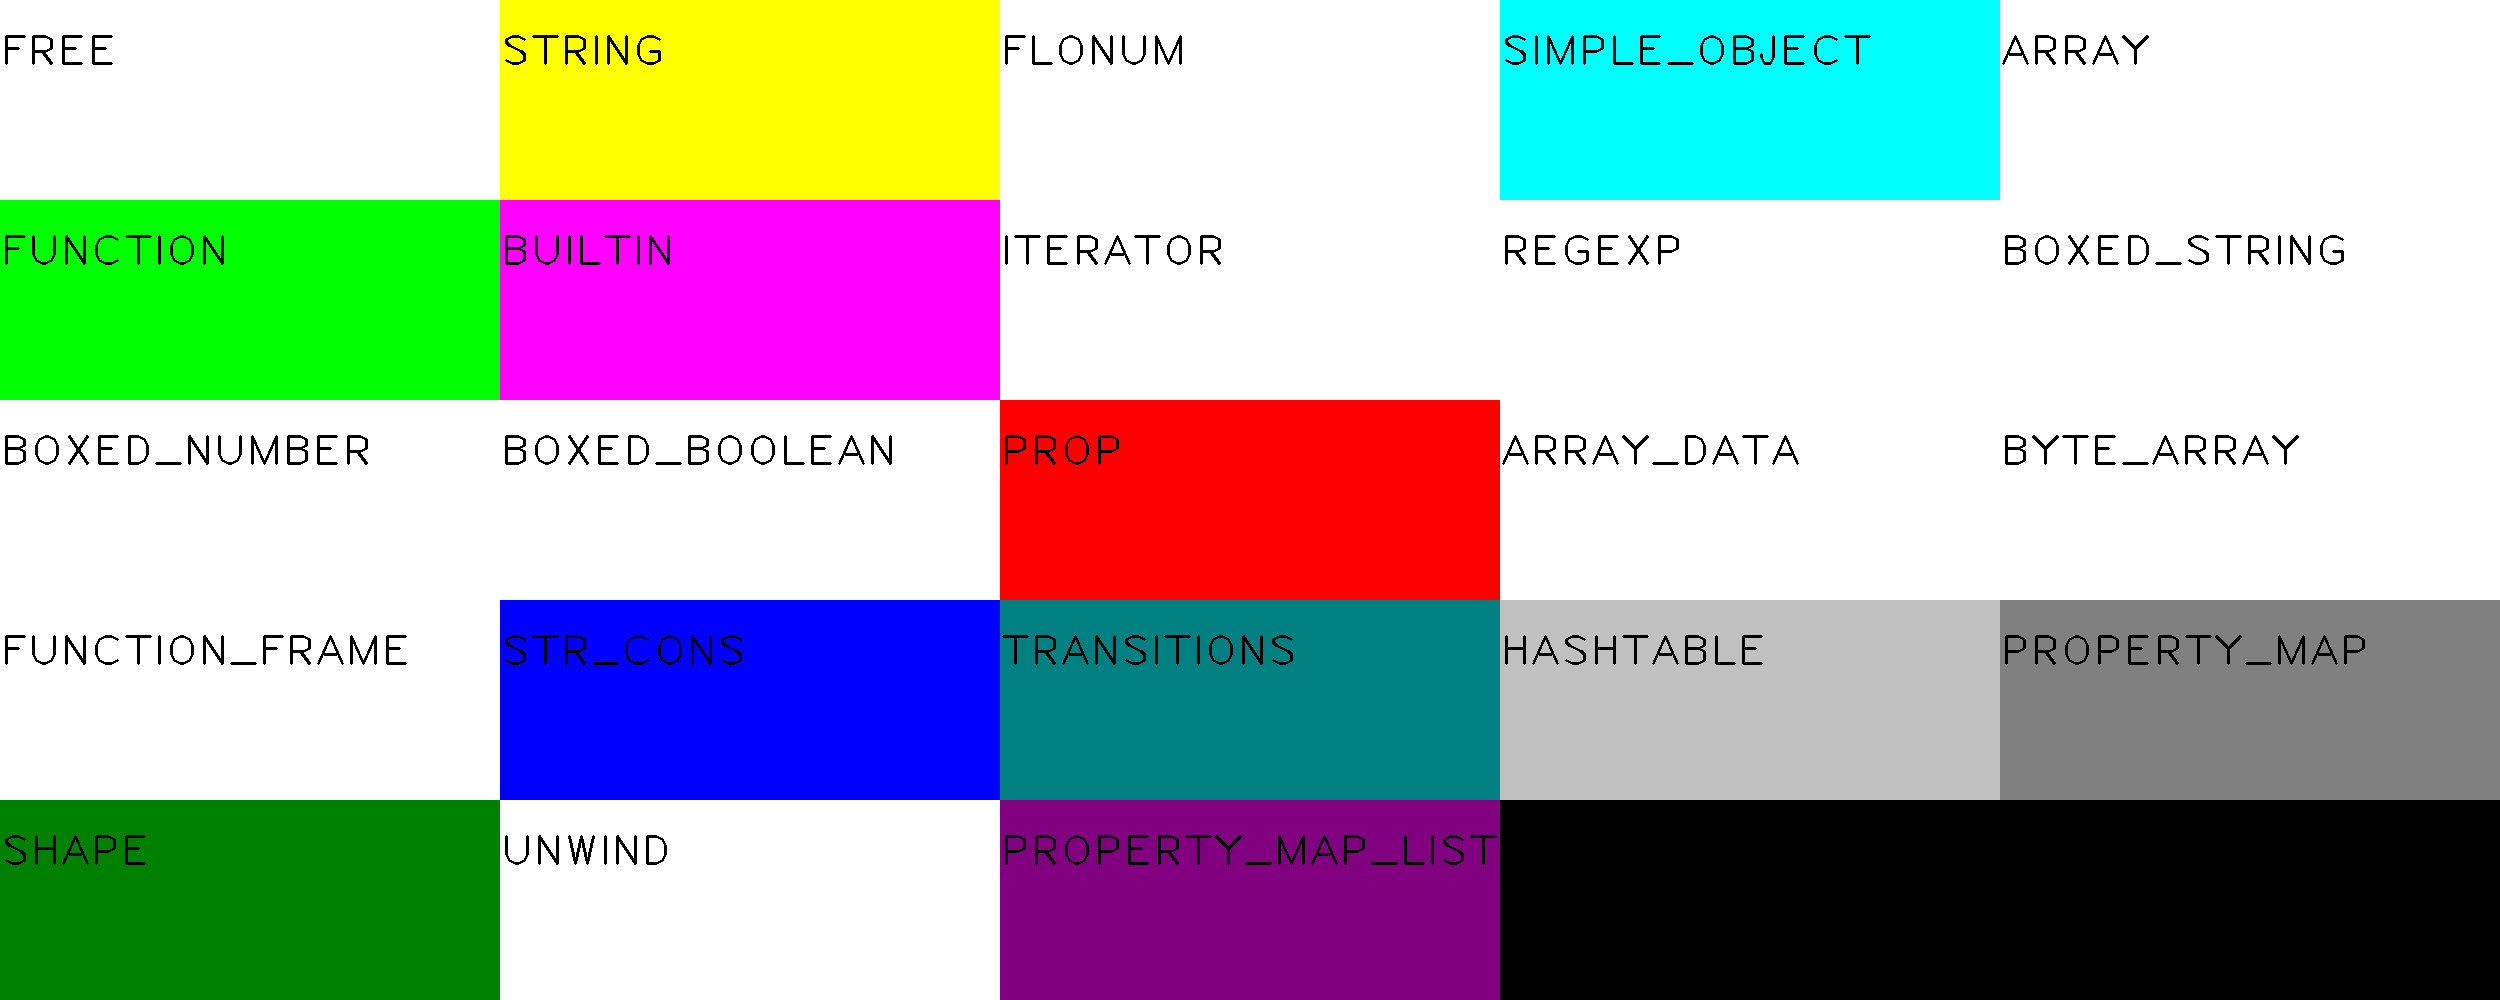
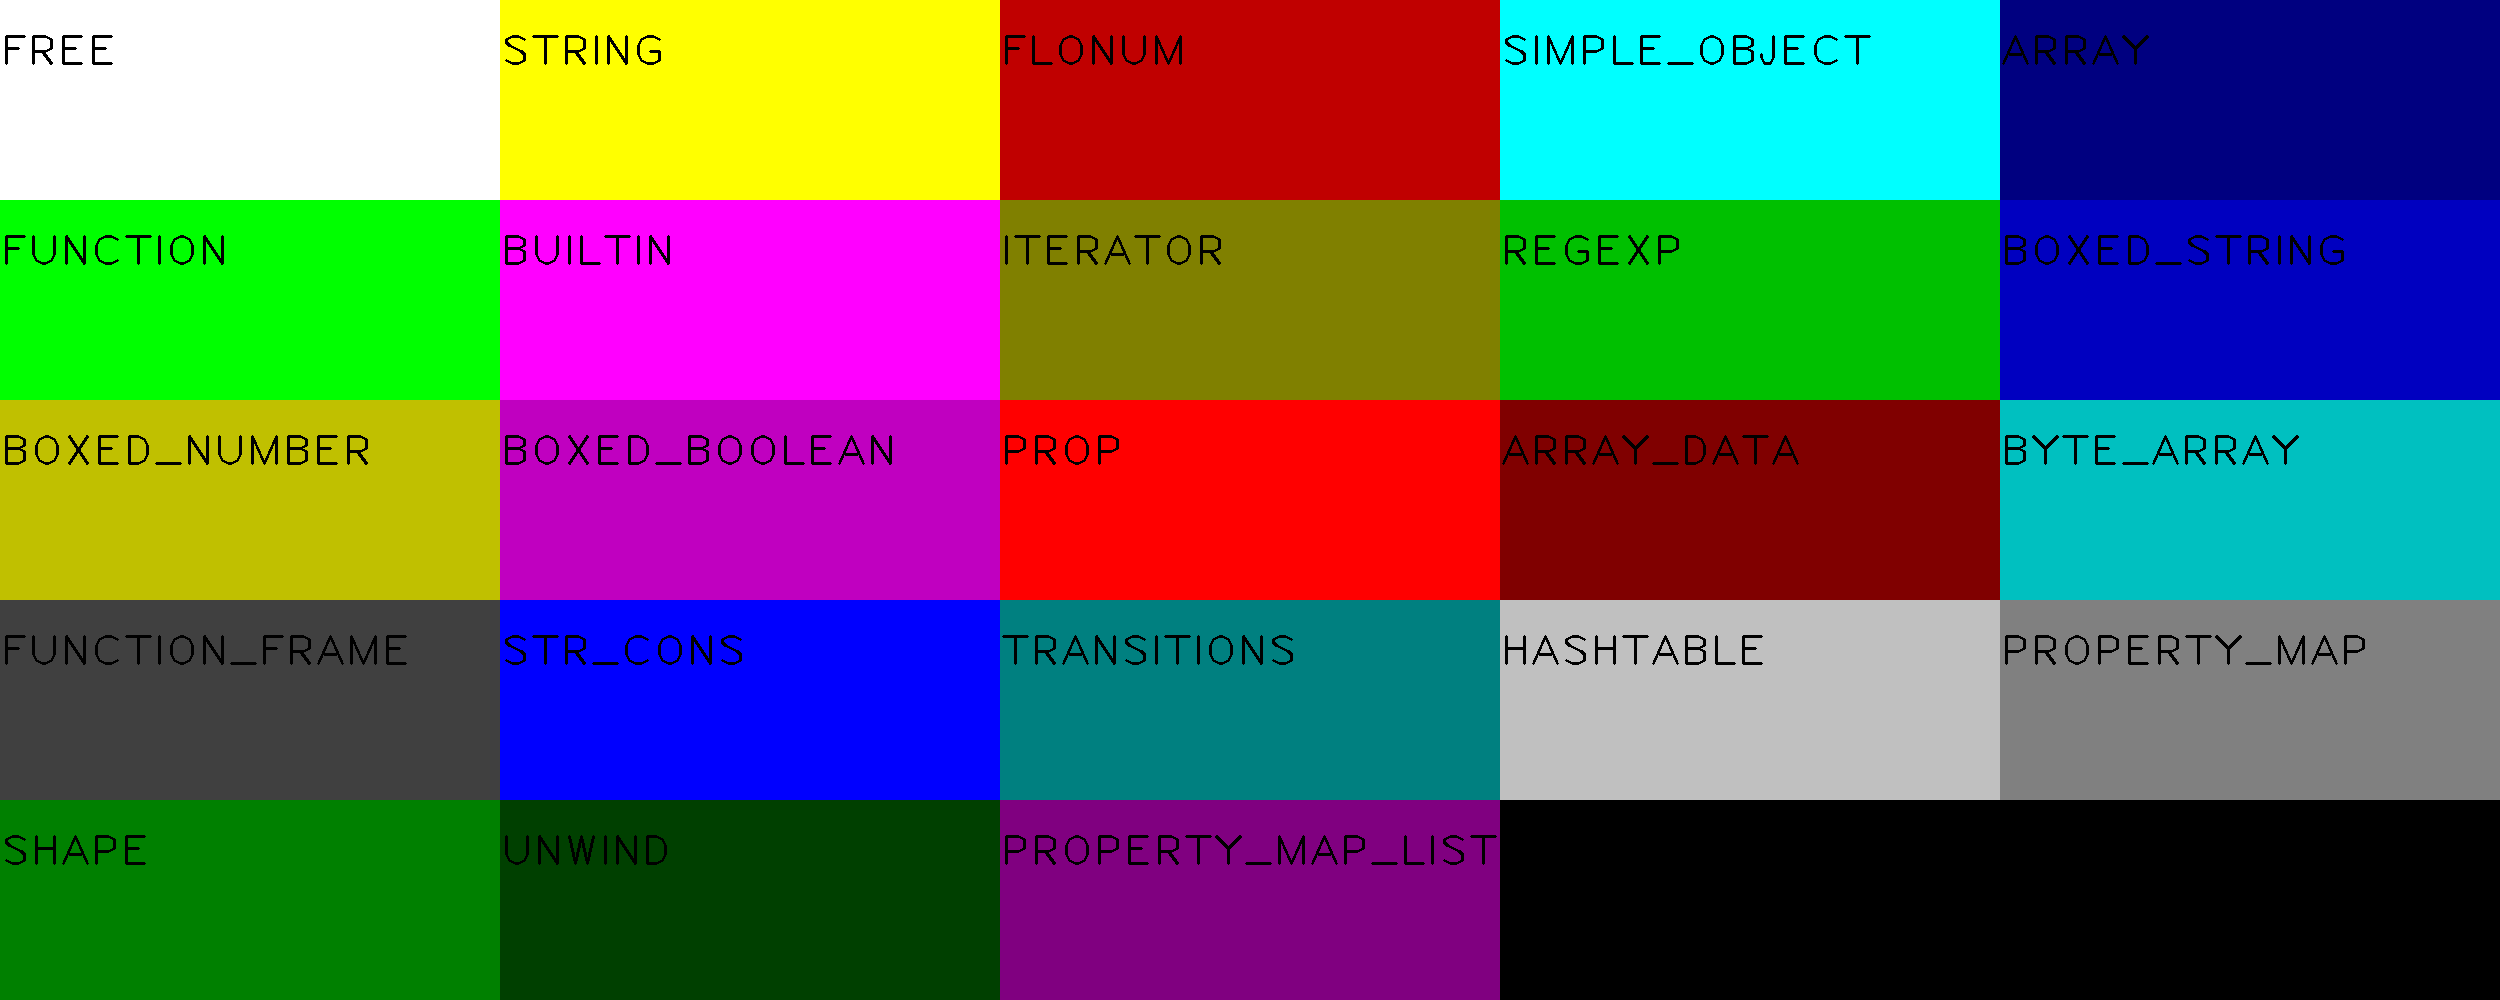
add hidden color

diff --git a/analysis/analyze.py b/analysis/analyze.py
@@ -1,6 +1,7 @@
 import cv2
 import numpy as np
-from collections import defaultdict
+from math import floor
+from random import randint
 
 from cell_types import CellTypeDict
 from ReadFile import readGC
@@ -9,84 +10,152 @@ BLACK = (0,0,0)
 CELL_LEN = 8
 INF = (1<<63) - 1
 
+USED_COLORS = set([])
+
+def num2color(x):
+  r = x >> 16
+  g = (x >> 8) % (1 << 8)
+  b = x % (1 << 8)
+  return (r, g, b)
+
+def color2num(c):
+  r, g, b = c[0], c[1], c[2]
+  return (r << 16) + (g << 8) + b
+
+for v in CellTypeDict.values():
+  c = v[1]
+  USED_COLORS.add(color2num(c))
+
+
 def is_hidden_class(type):
   return type <= 15
 
-def original_analyze(snap_shot, title):
+def getDict(snap_shot):
   total_bytes = 0
-  min_address = INF
-  max_address = -INF
-  for byte, _, address, _ in snap_shot:
-    min_address = min((min_address // 64) * 64, address)
-    max_address = max(max_address, (address + byte + 63)// 64 * 64)
-
-  width = 8
-  height = (max_address - min_address) // 64
-  img = np.zeros((height*CELL_LEN, width*CELL_LEN, 3), dtype=np.uint8)
-
+  dict = {}
   object_nums = [0 for _ in range(33)]
   object_bytes = [0 for _ in range(33)]
 
-  total_bytes = 0
-  dict = {} # num, total size
+  # original
+  min_address = INF
+  max_address = -INF
+
+  # alignment
+  alignment_height = 0
+
   for byte, type, address, hidden_class in snap_shot:
+    total_bytes += byte
+    object_nums[type] += 1
+    object_bytes[type] += byte
     if is_hidden_class(type):
       key = (type, hidden_class)
       if key not in dict:
         dict[key] = [0, 0]
       dict[key][0] += 1
       dict[key][1] += byte
-    total_bytes += byte
-    object_nums[type] += 1
-    object_bytes[type] += byte
+
+    # original
+    min_address = min((min_address // 64) * 64, address)
+    max_address = max(max_address, (address + byte + 63)// 64 * 64)
+
+    # alignment
+    alignment_height += (byte + 63) // 64
+
+  compress_types = 0
+  compress_target_bytes = 0
+  for key, val in dict.items():
+    if val[0] > 1:
+      compress_types += 1
+      compress_target_bytes += val[1]
+
+  additional_color_candidates = min(max(5, floor(compress_types * 1.5)), (1<<23)-1)
+  C = (1<<24)-1
+  inc = (C+1)//additional_color_candidates
+  Cs = []
+  for i in range(inc, C+1, inc):
+    if i > C: break
+    if i not in USED_COLORS:
+      Cs.append(num2color(i))
+  additional_colors = len(Cs)
+  idx = 0
+  hiddenClassCellTypeDict = {}
+  for key, val in dict.items():
+    if val[0] > 1:
+      if (idx >= additional_colors):
+        while True:
+          x = randint(0, (1<<24)-1)
+          if x not in USED_COLORS:
+            USED_COLORS.add(x)
+            c = num2color(x)
+            hiddenClassCellTypeDict[key] = c
+            break
+      else:
+        hiddenClassCellTypeDict[key] = Cs[idx]
+        idx += 1
+
+  print("total byte: {0} ({1} KB)".format(total_bytes, floor(total_bytes / 1024 * 100) / 100))
+  for key, val in CellTypeDict.items():
+    print("object type: {0}, count: {1}, byte: {2}".format(val[0], object_nums[key], object_bytes[key]))
+  print("compress types: {0}".format(compress_types))
+  print("compress target bytes: {0} ({1} KB, {2}%)".format(compress_target_bytes, floor(compress_target_bytes/1024 * 100)/100, floor(compress_target_bytes/total_bytes*10000)/100))
+  for key, val in dict.items():
+    if (val[0] > 1):
+      print(key, val)
+  return dict, total_bytes, compress_types, hiddenClassCellTypeDict, min_address, max_address, alignment_height
+
+
+def original_analyze(snap_shot, title, hiddenClassCellTypeDict, max_address, min_address):
+  width = 8
+  height = (max_address - min_address) // 64
+  img = np.zeros((height*CELL_LEN, width*CELL_LEN, 3), dtype=np.uint8)
+  img_hidden_class = np.zeros((height*CELL_LEN, width*CELL_LEN, 3), dtype=np.uint8)
+
+  for byte, type, address, hidden_class in snap_shot:
     relative_address = address - min_address
     id = relative_address // 8
     blocks = byte // 8 # 8 byte blockの個数
+    key = (type, hidden_class)
     for i in range(blocks):
       h, w = (id+i) // width, (id+i) % width
       img[h*CELL_LEN:(h+1)*CELL_LEN, w*CELL_LEN:(w+1)*CELL_LEN] = CellTypeDict[type][1]
       img[(h+1)*CELL_LEN-1:(h+1)*CELL_LEN, w*CELL_LEN:(w+1)*CELL_LEN] = BLACK
+      # hidden class
+      if key in hiddenClassCellTypeDict:
+        img_hidden_class[h*CELL_LEN:(h+1)*CELL_LEN, w*CELL_LEN:(w+1)*CELL_LEN] = hiddenClassCellTypeDict[key]
+        img_hidden_class[(h+1)*CELL_LEN-1:(h+1)*CELL_LEN, w*CELL_LEN:(w+1)*CELL_LEN] = CellTypeDict[type][1]
+      else:
+        img_hidden_class[h*CELL_LEN:(h+1)*CELL_LEN, w*CELL_LEN:(w+1)*CELL_LEN] = CellTypeDict[type][1]
+        img_hidden_class[(h+1)*CELL_LEN-1:(h+1)*CELL_LEN, w*CELL_LEN:(w+1)*CELL_LEN] = BLACK
 
-  compress_byte = 0
-  for key, val in dict.items():
-    compress_byte += val[1]
-    print(key, val)
-
-
-  print("===== {0} =====".format(title))
   cache_lines = height
-  print("cache line: {0}, total byte: {1}".format(cache_lines, total_bytes))
-  print("compress byte: {0}, {1}%".format(compress_byte, compress_byte / total_bytes * 100))
-  print("{0} KB".format(total_bytes//1024))
-  for key, val in CellTypeDict.items():
-    print("object type: {0}, count: {1}, byte: {2}".format(val[0], object_nums[key], object_bytes[key]))
-  print("===== end =====")
-  return
+  print("original cache line: {0}".format(cache_lines))
+  cv2.imwrite("{0}_hidden.png".format(title), img_hidden_class)
   cv2.imwrite("{0}.png".format(title), img)
 
 
-def alignment_analyze(snap_shot, title):
+def alignment_analyze(snap_shot, title, height, hiddenClassCellTypeDict):
   width = 8
-  height = 0
-  for byte, _, _ in snap_shot:
-    height += (byte + 63) // 64
 
   img = np.zeros((height*CELL_LEN, width*CELL_LEN, 3), dtype=np.uint8)
+  img_hidden_class = np.zeros((height*CELL_LEN, width*CELL_LEN, 3), dtype=np.uint8)
+
   h = 0
-  object_nums = [0 for _ in range(33)]
-  object_bytes = [0 for _ in range(33)]
-  total_bytes = 0
   for byte, type, _, hidden_class in snap_shot:
-    total_bytes += byte
-    object_nums[type] += 1
-    object_bytes[type] += byte
     section_num = byte // 8
     hs = section_num // 8
     re = section_num  % 8
+    key = (type, hidden_class)
     for _ in range(hs):
       img[h*CELL_LEN:(h+1)*CELL_LEN, 0:width*CELL_LEN] = CellTypeDict[type][1]
       img[(h+1)*CELL_LEN-1:(h+1)*CELL_LEN, 0:width*CELL_LEN] = BLACK
-      h += 1
+      # hidden class
+      if key in hiddenClassCellTypeDict:
+        img_hidden_class[h*CELL_LEN:(h+1)*CELL_LEN, 0:width*CELL_LEN] = hiddenClassCellTypeDict[key]
+        img_hidden_class[(h+1)*CELL_LEN-1:(h+1)*CELL_LEN, 0:width*CELL_LEN] = CellTypeDict[type][1]
+      else:
+        img_hidden_class[h*CELL_LEN:(h+1)*CELL_LEN, 0:width*CELL_LEN] = CellTypeDict[type][1]
+        img_hidden_class[(h+1)*CELL_LEN-1:(h+1)*CELL_LEN, 0:width*CELL_LEN] = BLACK
+      h+=1
 
     if re == 0:
       continue
@@ -94,20 +163,38 @@ def alignment_analyze(snap_shot, title):
     img[h*CELL_LEN:(h+1)*CELL_LEN, 0:re*CELL_LEN] = CellTypeDict[type][1]
     img[(h+1)*CELL_LEN-1:(h+1)*CELL_LEN, 0:re*CELL_LEN] = BLACK
     img[h*CELL_LEN:(h+1)*CELL_LEN, re*CELL_LEN-1:re*CELL_LEN] = BLACK
+    # hidden
+    if key in hiddenClassCellTypeDict:
+      img_hidden_class[h*CELL_LEN:(h+1)*CELL_LEN, 0:re*CELL_LEN] = hiddenClassCellTypeDict[key]
+      img_hidden_class[(h+1)*CELL_LEN-1:(h+1)*CELL_LEN, 0:re*CELL_LEN] = CellTypeDict[type][1]
+      img_hidden_class[h*CELL_LEN:(h+1)*CELL_LEN, re*CELL_LEN-1:re*CELL_LEN] = BLACK
+    else:
+      img_hidden_class[h*CELL_LEN:(h+1)*CELL_LEN, 0:re*CELL_LEN] = CellTypeDict[type][1]
+      img_hidden_class[(h+1)*CELL_LEN-1:(h+1)*CELL_LEN, 0:re*CELL_LEN] = BLACK
+      img_hidden_class[h*CELL_LEN:(h+1)*CELL_LEN, re*CELL_LEN-1:re*CELL_LEN] = BLACK
+
     h += 1
 
+
+  cache_lines = height
+  print("alignment cache line: {0}".format(cache_lines))
+  cv2.imwrite("{0}_hidden.png".format(title), img_hidden_class)
   cv2.imwrite("{0}.png".format(title), img)
 
-  print("===== {0} =====".format(title))
-  cache_lines = height
-  print("cache line: {0}, total byte: {1}".format(cache_lines, total_bytes))
-  print("{0} KB".format(total_bytes//1024))
-  for key, val in CellTypeDict.items():
-    print("object type: {0}, count: {1}, byte: {2}".format(val[0], object_nums[key], object_bytes[key]))
-  print("===== end =====")
 
-file = input().rstrip()
+
+# file = input().rstrip()
+file = "Bounce-small"
 result = readGC("data/{0}.txt".format(file))
 for i, snap_shot in enumerate(result):
-  original_analyze(snap_shot, "original{0}".format(i+1))
-  # alignment_analyze(snap_shot, "alignment{0}".format(i+1))
+  print("===== start {0} =====".format(i+1))
+
+  dict, total_bytes, compress_types, hiddenClassCellTypeDict, min_address, max_address, alignment_height \
+  = getDict(snap_shot)
+
+  # original_analyze(snap_shot, "original{0}".format(i+1), hiddenClassCellTypeDict, max_address, min_address)
+
+  alignment_analyze(snap_shot, "alignment{0}".format(i+1), alignment_height,hiddenClassCellTypeDict)
+
+  print("===== end {0} =====".format(i+1))
+  print()

diff --git a/analysis/cell_types.py b/analysis/cell_types.py
@@ -2,21 +2,21 @@ WHITE = (255, 255, 255)
 CellTypeDict = {
   0: ("CELLT_FREE", WHITE),
   4: ("CELLT_STRING", (0, 255, 255)),
-  5: ("CELLT_FLONUM", WHITE),
+  5: ("CELLT_FLONUM", (0, 0, 192)),
   6: ("CELLT_SIMPLE_OBJECT", (255, 255, 0)),
-  7: ("CELLT_ARRAY", WHITE),
+  7: ("CELLT_ARRAY", (128, 0, 0)),
   8: ("CELLT_FUNCTION", (0, 255, 0)),
   9: ("CELLT_BUILTIN", (255, 0, 255)),
-  10: ("CELLT_ITERATOR", WHITE),
-  11: ("CELLT_REGEXP", WHITE),
-  12: ("CELLT_BOXED_STRING", WHITE),
-  13: ("CELLT_BOXED_NUMBER", WHITE),
-  14: ("CELLT_BOXED_BOOLEAN", WHITE),
+  10: ("CELLT_ITERATOR", (0, 128, 128)),
+  11: ("CELLT_REGEXP", (0, 192, 0)),
+  12: ("CELLT_BOXED_STRING", (192, 0, 0)),
+  13: ("CELLT_BOXED_NUMBER", (0, 192, 192)),
+  14: ("CELLT_BOXED_BOOLEAN", (192, 0, 192)),
 
   17: ("CELLT_PROP", (0, 0, 255)), # Array of JSValues
-  18: ("CELLT_ARRAY_DATA", WHITE), # Array of JSValues
-  19: ("CELLT_BYTE_ARRAY", WHITE), # Array of primitives
-  20: ("CELLT_FUNCTION_FRAME", WHITE),
+  18: ("CELLT_ARRAY_DATA", (0, 0, 128)), # Array of JSValues
+  19: ("CELLT_BYTE_ARRAY", (192, 192, 0)), # Array of primitives
+  20: ("CELLT_FUNCTION_FRAME", (64, 64, 64)),
   21: ("CELLT_STR_CONS", (255, 0, 0)),
   # 22: "CELLT_CONTEXT", no longer used
   # 23: "CELLT_STACK", no longer used
@@ -26,6 +26,6 @@ CellTypeDict = {
   # 27: "CELLT_HASH_CELL", no longer used
   28: ("CELLT_PROPERTY_MAP", (128, 128, 128)),
   29: ("CELLT_SHAPE", (0, 128, 0)),
-  30: ("CELLT_UNWIND", WHITE),
+  30: ("CELLT_UNWIND", (0, 64, 0)),
   31: ("CELLT_PROPERTY_MAP_LIST", (128, 0, 128)),
 }
